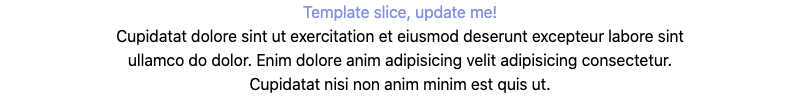
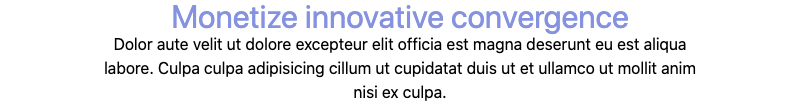
WORKING!

Changed region(s): [[0.125, 0.0312, 0.875, 0.5], [0.125, 0.5625, 0.875, 0.75], [0.3125, 0.8125, 0.6875, 0.9688]]

diff --git a/.slicemachine/assets/slices/TextBlock/index.stories.js b/.slicemachine/assets/slices/TextBlock/index.stories.js
@@ -5,5 +5,5 @@ export default {
 }
 
 
-export const _Default = () => <MyComponent slice={{"variation":"default","name":"Default","slice_type":"text_block","items":[],"primary":{"subHeading":[{"type":"heading1","text":"Productize bleeding-edge functionalities","spans":[]}],"description":[{"type":"paragraph","text":"Cupidatat dolore sint ut exercitation et eiusmod deserunt excepteur labore sint ullamco do dolor. Enim dolore anim adipisicing velit adipisicing consectetur. Cupidatat nisi non anim minim est quis ut.","spans":[]}]},"id":"_Default"}} />
+export const _Default = () => <MyComponent slice={{"variation":"default","name":"Default","slice_type":"text_block","items":[],"primary":{"subHeading":[{"type":"heading1","text":"Monetize innovative convergence","spans":[]}],"description":[{"type":"paragraph","text":"Dolor aute velit ut dolore excepteur elit officia est magna deserunt eu est aliqua labore. Culpa culpa adipisicing cillum ut cupidatat duis ut et ullamco ut mollit anim nisi ex culpa.","spans":[]}]},"id":"_Default"}} />
 _Default.storyName = 'Default'

diff --git a/pages/projects/[uid].tsx b/pages/projects/[uid].tsx
@@ -2,14 +2,17 @@ import { createClient, linkResolver } from "../../prismicio";
 import Layout from "../../components/layout";
 import type { NextPage } from "next";
 import { PrismicRichText } from "@prismicio/react";
+import { SliceZone } from '@prismicio/react'
+import { components } from '../../slices'
+
 
 import * as prismicH from "@prismicio/helpers";
 
 export default function LandingPage({ project }: any) {
   return (
     <Layout>
-      <h1>{ project?.uid }</h1>
-      <PrismicRichText field={project?.data?.slices?.primary} />
+      <h1>{project?.uid}</h1>
+      <SliceZone slices={project?.data?.slices} components={ components } />
     </Layout>
   );
 }
@@ -26,9 +29,8 @@ export async function getStaticPaths({ previewData }: any) {
 export async function getStaticProps({ params, previewData }: any) {
   const client = createClient({ previewData });
   const uid = params.uid;
-  console.log(uid)
+  console.log(uid);
   const project = await client.getByUID("projects", uid);
-  console.log(project)
   return {
     props: { project },
   };

diff --git a/slices/TextBlock/index.js b/slices/TextBlock/index.js
@@ -3,10 +3,10 @@ import { PrismicRichText } from '@prismicio/react'
 
 const TextBlock = ({ slice }) => (
   <section>
-    <span className="title">
+    <span className="subHeading">
       {
-        slice.primary.title ?
-        <PrismicRichText field={slice.primary.title}/>
+        slice.primary.subHeading ?
+        <PrismicRichText field={slice.primary.subHeading}/>
         : <h2>Template slice, update me!</h2>
       }
     </span>
@@ -21,7 +21,7 @@ const TextBlock = ({ slice }) => (
           margin: 4em auto;
           text-align: center;
         }
-        .title {
+        .subHeading {
           color: #8592e0;
         }
     `}</style>

diff --git a/.slicemachine/assets/slices/SliceReal/index.stories.js b/.slicemachine/assets/slices/SliceReal/index.stories.js
@@ -1,0 +1,9 @@
+import MyComponent from '../../../../slices/SliceReal';
+
+export default {
+  title: 'slices/SliceReal'
+}
+
+
+export const _Default = () => <MyComponent slice={{"variation":"default","name":"Default","slice_type":"slice_real","items":[],"primary":{"title":[{"type":"heading1","text":"Innovate impactful technologies","spans":[]}],"description":[{"type":"paragraph","text":"Nostrud veniam enim consequat cupidatat officia irure ad. Cillum enim dolore ut consequat est qui magna Lorem.","spans":[]}]},"id":"_Default"}} />
+_Default.storyName = 'Default'

diff --git a/slices/index.js b/slices/index.js
@@ -2,16 +2,13 @@
 
 import ImageCaption from './ImageCaption';
 import TextBlock from './TextBlock';
-import TextImageRight from './TextImageRight';
 
 export {
 	ImageCaption,
 	TextBlock,
-	TextImageRight,
 };
 
 export const components = {
 	image_caption: ImageCaption,
 	text_block: TextBlock,
-	text_image_right: TextImageRight,
 };
